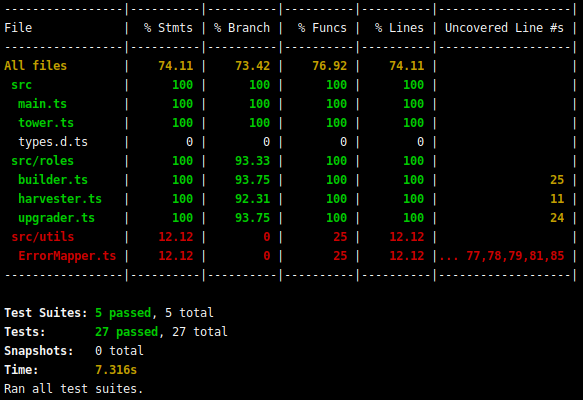
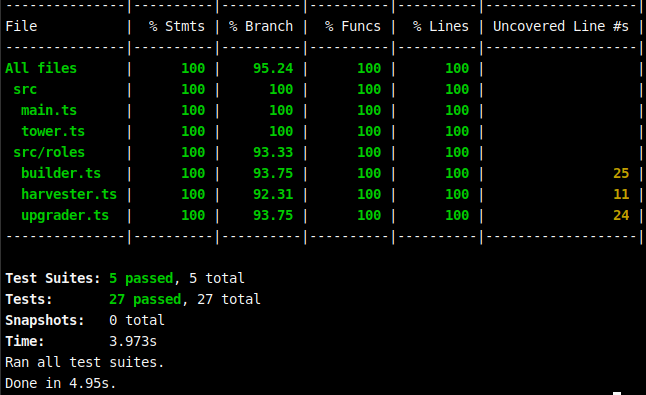
Improved Jest coverage configs

Changed region(s): [[0.0, 0.0, 1.0, 1.0]]

diff --git a/jest.config.js b/jest.config.js
@@ -1,5 +1,15 @@
 module.exports = {
-  moduleDirectories: ["node_modules", "src"],
-  preset: 'ts-jest',
-  testEnvironment: 'node'
+  collectCoverageFrom: [
+    "src/**/*.{js,ts}"
+  ],
+  coveragePathIgnorePatterns: [
+    "\.d\.ts$",
+    "src/utils/ErrorMapper.ts"
+  ],
+  moduleDirectories: [
+    "node_modules",
+    "src"
+  ],
+  preset: "ts-jest",
+  testEnvironment: "node"
 };
